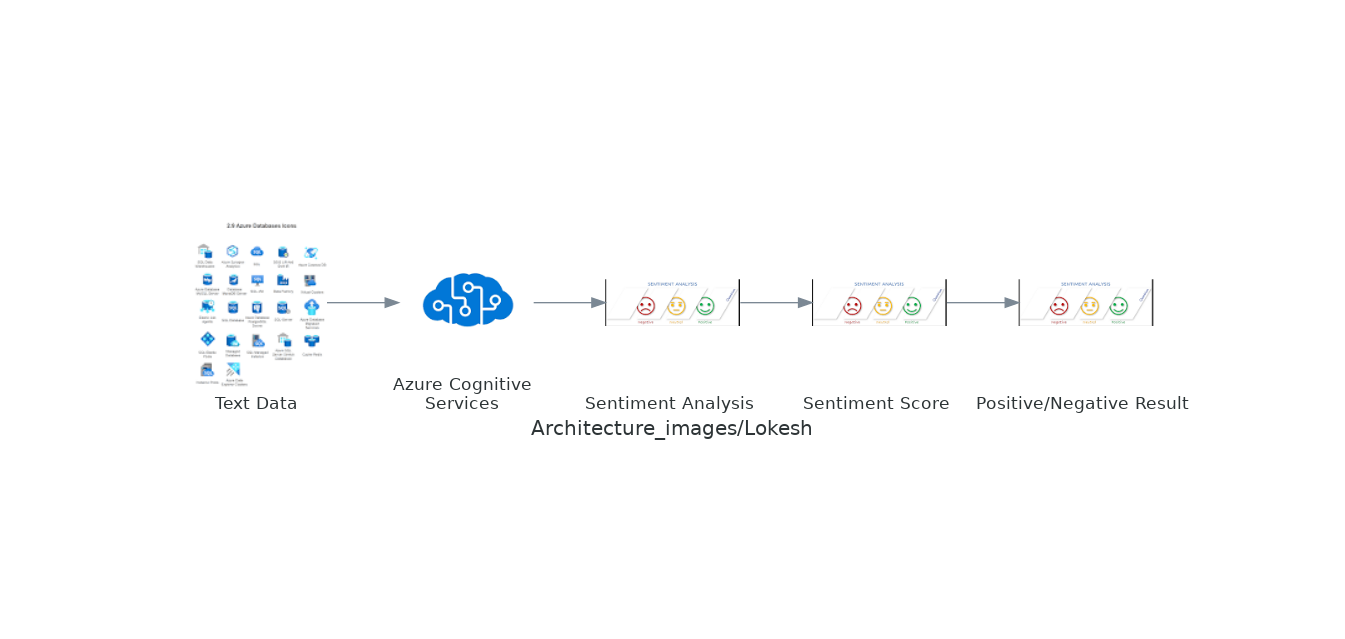
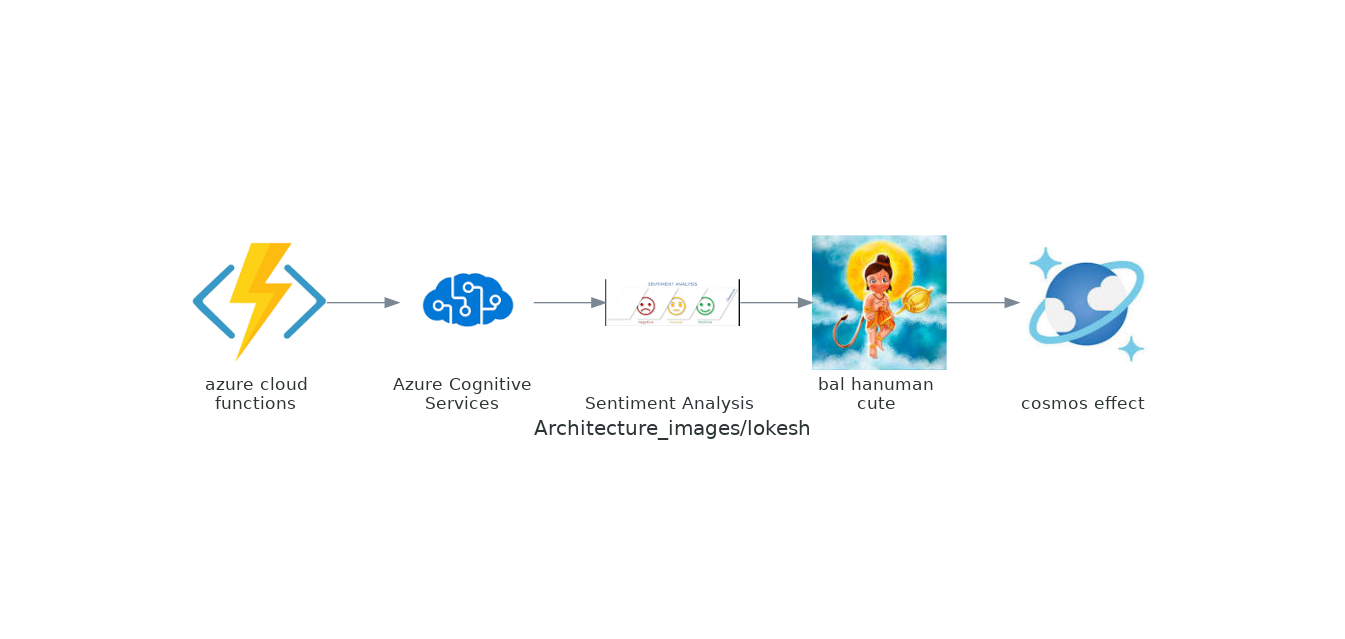
Move files to new folder

Changed region(s): [[0.3747, 0.3568, 0.8743, 0.6839], [0.1249, 0.3271, 0.2498, 0.6541], [0.7494, 0.3865, 0.8743, 0.5649]]

diff --git a/dynamically_generated_stuff/dynamic_diagrams_code.py b/dynamically_generated_stuff/dynamic_diagrams_code.py
@@ -28,24 +28,24 @@ def get_image_urls(query):
         if img_url:
             image_urls.append(img_url)
     return image_urls[1]
-with Diagram("Architecture_images/hanuman", show=False):
+with Diagram("Architecture_images/lokesh", show=False):
     urlretrieve(get_image_urls("icon of azure cloud functions in AZURE"), "/home/runner/work/Archimage_Generator/Archimage_Generator/dynamically_generated_stuff/temp_src_images/azure_cloud_functions_icon.png")
     azure_cloud_functions_ = Custom("azure cloud \nfunctions ", "/home/runner/work/Archimage_Generator/Archimage_Generator/dynamically_generated_stuff/temp_src_images/azure_cloud_functions_icon.png")
+
+    urlretrieve(get_image_urls("icon of bal hanuman cute in AZURE"), "/home/runner/work/Archimage_Generator/Archimage_Generator/dynamically_generated_stuff/temp_src_images/bal_hanuman_cute_icon.png")
+    bal_hanuman_cute_ = Custom("bal hanuman \ncute ", "/home/runner/work/Archimage_Generator/Archimage_Generator/dynamically_generated_stuff/temp_src_images/bal_hanuman_cute_icon.png")
 
     urlretrieve(get_image_urls("icon of cosmos effect in AZURE"), "/home/runner/work/Archimage_Generator/Archimage_Generator/dynamically_generated_stuff/temp_src_images/cosmos_effect_icon.png")
     cosmos_effect_ = Custom("cosmos effect \n", "/home/runner/work/Archimage_Generator/Archimage_Generator/dynamically_generated_stuff/temp_src_images/cosmos_effect_icon.png")
 
-    urlretrieve(get_image_urls("icon of Azure Cognitive Services in AZURE"), "/home/runner/work/Archimage_Generator/Archimage_Generator/dynamically_generated_stuff/temp_src_images/Azure_Cognitive_Services_icon.png")
-    Azure_Cognitive_Services_ = Custom("Azure Cognitive \nServices ", "/home/runner/work/Archimage_Generator/Archimage_Generator/dynamically_generated_stuff/temp_src_images/Azure_Cognitive_Services_icon.png")
-
-    urlretrieve(get_image_urls("icon of hanuman in AZURE"), "/home/runner/work/Archimage_Generator/Archimage_Generator/dynamically_generated_stuff/temp_src_images/hanuman_icon.png")
-    hanuman_ = Custom("hanuman ", "/home/runner/work/Archimage_Generator/Archimage_Generator/dynamically_generated_stuff/temp_src_images/hanuman_icon.png")
-
     urlretrieve(get_image_urls("icon of Sentiment Analysis in AZURE"), "/home/runner/work/Archimage_Generator/Archimage_Generator/dynamically_generated_stuff/temp_src_images/Sentiment_Analysis_icon.png")
     Sentiment_Analysis_ = Custom("Sentiment Analysis \n", "/home/runner/work/Archimage_Generator/Archimage_Generator/dynamically_generated_stuff/temp_src_images/Sentiment_Analysis_icon.png")
+
+    urlretrieve(get_image_urls("icon of Azure Cognitive Services in AZURE"), "/home/runner/work/Archimage_Generator/Archimage_Generator/dynamically_generated_stuff/temp_src_images/Azure_Cognitive_Services_icon.png")
+    Azure_Cognitive_Services_ = Custom("Azure Cognitive \nServices ", "/home/runner/work/Archimage_Generator/Archimage_Generator/dynamically_generated_stuff/temp_src_images/Azure_Cognitive_Services_icon.png")
 
 
     azure_cloud_functions_ >> Azure_Cognitive_Services_
     Azure_Cognitive_Services_ >> Sentiment_Analysis_
-    Sentiment_Analysis_ >> hanuman_
-    hanuman_ >> cosmos_effect_
+    Sentiment_Analysis_ >> bal_hanuman_cute_
+    bal_hanuman_cute_ >> cosmos_effect_
